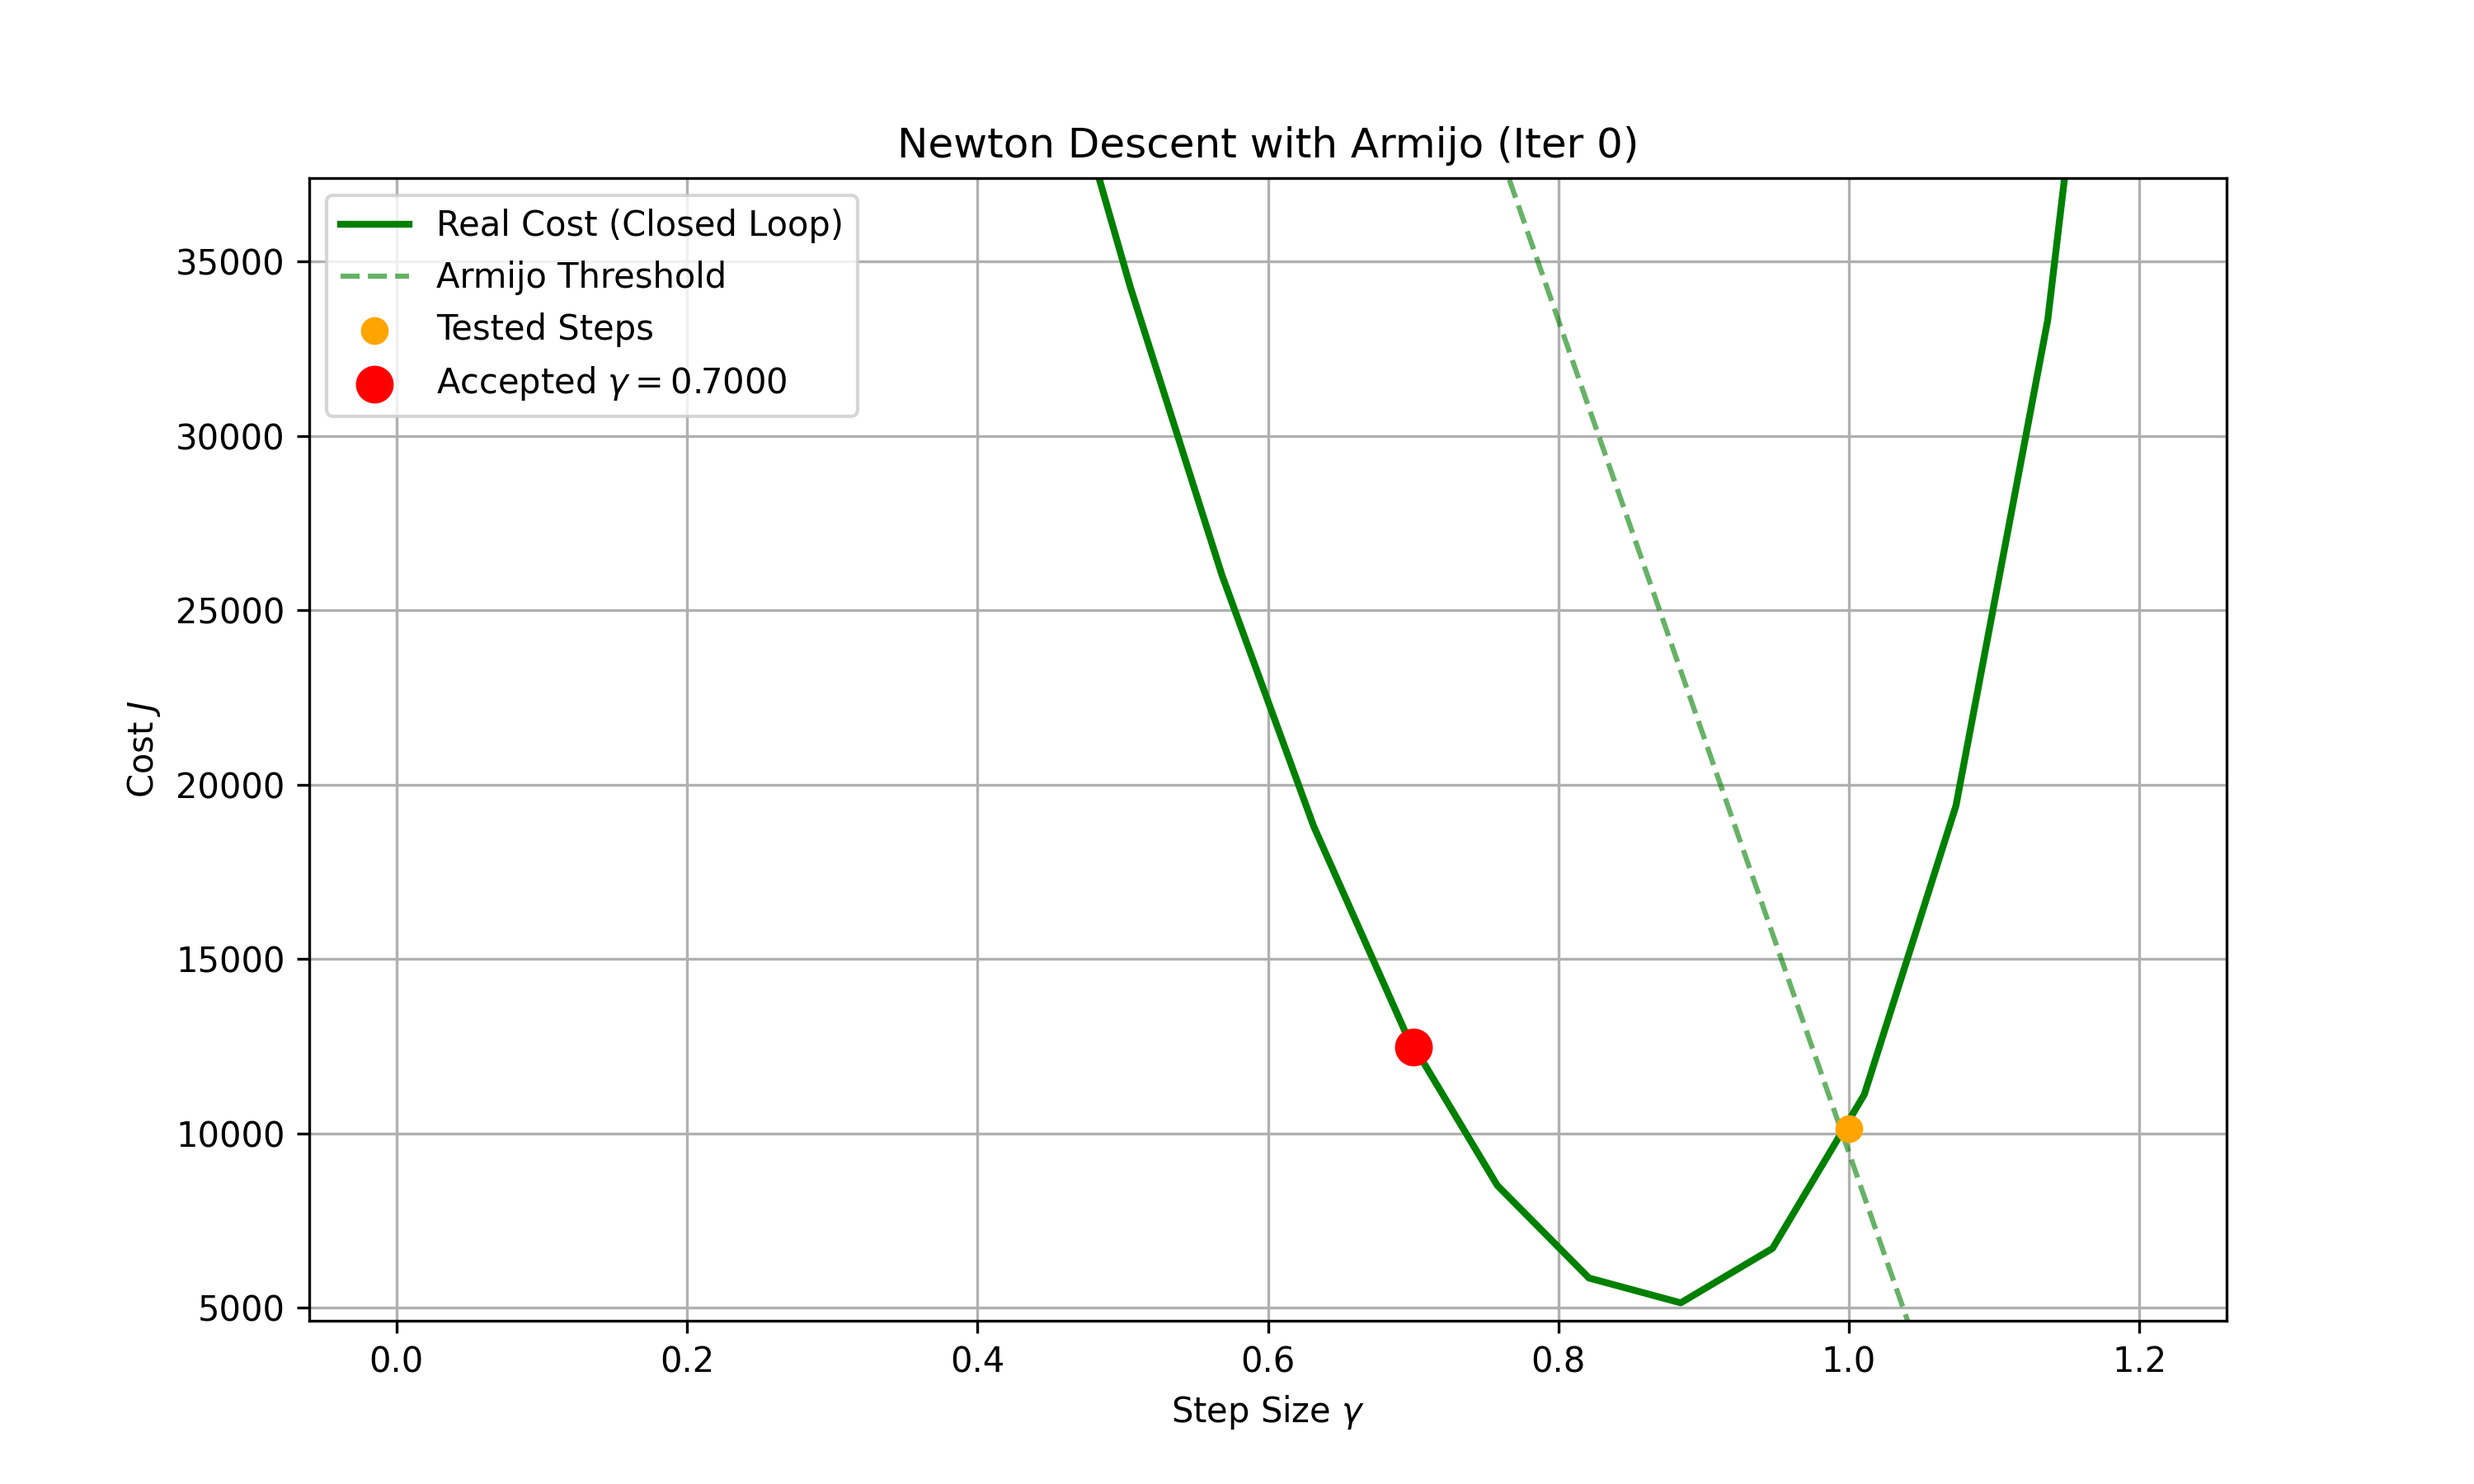
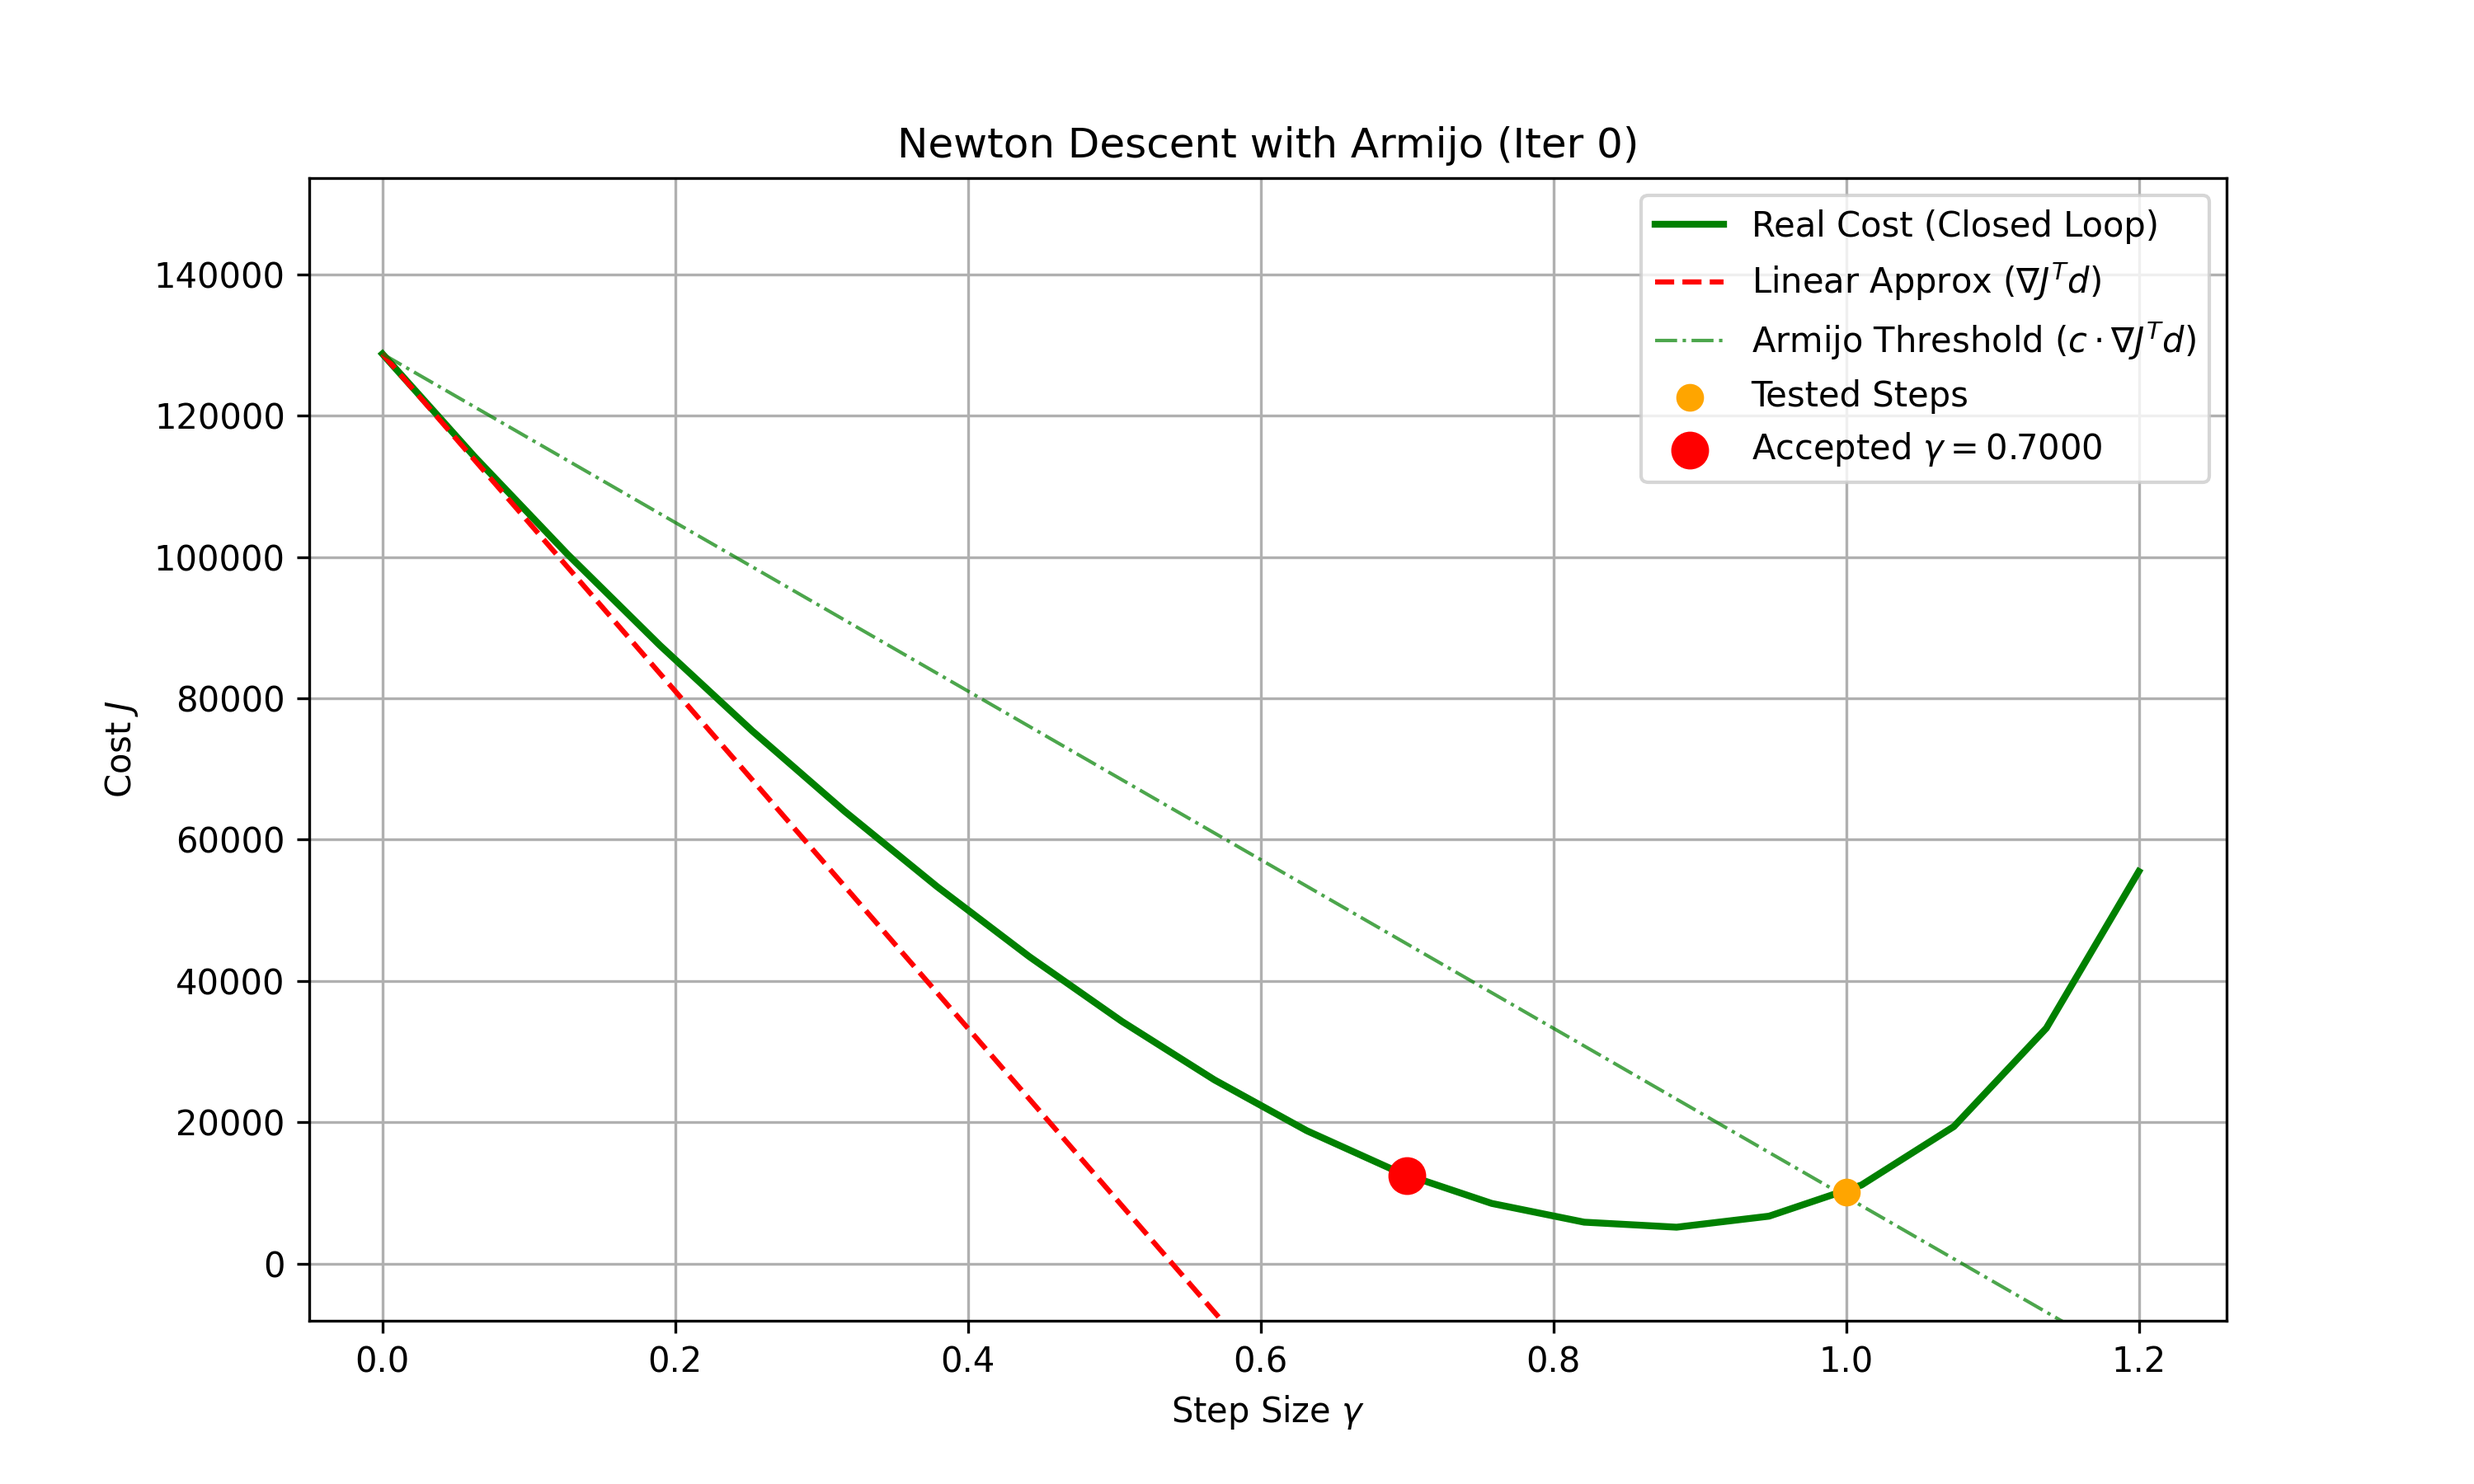
Cambiato plot armijo (tangente)

diff --git a/main_task1.py b/main_task1.py
@@ -161,6 +161,7 @@ for kk in range(max_iters):
         # Initializing lists to store later the real cost and the armijo threshold line
         costs_test = []
         armijo_thresholds = []
+        linear_approximations = []
         
         # Simulating the exact cost that the algorithm would see
         for g_val in gammas_test:
@@ -201,11 +202,18 @@ for kk in range(max_iters):
             thresh = cost_current + cc * g_val * slope 
             armijo_thresholds.append(thresh)
 
+            # Tangent line
+            lin_approx = cost_current + 1.0 * g_val * slope 
+            linear_approximations.append(lin_approx)
+
+            
+
         # Saving curve data
         armijo_data_iter['iter'] = kk
         armijo_data_iter['gammas'] = gammas_test
         armijo_data_iter['real_costs'] = costs_test
         armijo_data_iter['thresholds'] = armijo_thresholds
+        armijo_data_iter['linear_approx'] = linear_approximations
         
         # Placeholder for tested points
         armijo_data_iter['tested_gammas'] = []
@@ -502,6 +510,7 @@ if len(global_armijo_data) > 0:
         gammas = data['gammas']
         real_costs = data['real_costs']
         lines = data['thresholds']
+        tangents = data.get('linear_approx')
         
         acc_g = data['accepted_gamma']
         acc_c = data['accepted_cost']
@@ -512,17 +521,25 @@ if len(global_armijo_data) > 0:
         
         plt.figure(figsize=(10, 6))
         
-        # 1. Curves
+        # 1. Real cost curve
         plt.plot(gammas, real_costs, 'g-', linewidth=2, label='Real Cost (Closed Loop)')
-        plt.plot(gammas, lines, 'g--', alpha=0.6, label='Armijo Threshold')
-        
-        # 2. Tested Points (Orange Scatter)
+
+       # 2. Linear Approximation (Tangent) - Red Dashed
+        if tangents is not None:
+             plt.plot(gammas, tangents, 'r--', linewidth=1.5, label=r'Linear Approx ($\nabla J^T d$)')
+
+        # 3. Armijo Threshold - Green Dashed (Thinner)
+        plt.plot(gammas, lines, 'g-.', linewidth=1, alpha=0.7, label=r'Armijo Threshold ($c \cdot \nabla J^T d$)')
+
+        # 4. Tested Points (Orange Scatter)
         if len(tested_g) > 0:
             plt.scatter(tested_g, tested_c, color='orange', s=50, zorder=5, label='Tested Steps')
         
-        # 3. Accepted Point (Red Scatter)
+        # 5. Accepted Point (Red Scatter)
         if acc_g is not None:
             plt.scatter(acc_g, acc_c, color='red', s=100, zorder=6, label=fr'Accepted $\gamma={acc_g:.4f}$')
+        
+
             
         plt.title(f'Newton Descent with Armijo (Iter {iter_idx})')
         plt.xlabel(r'Step Size $\gamma$')
@@ -530,10 +547,49 @@ if len(global_armijo_data) > 0:
         plt.grid(True)
         plt.legend(loc='best')
         
+        # --- ZOOM INTELLIGENTE (Versione Tangenza Visibile) ---
+        
+        # 1. Determiniamo i limiti basandoci SOLO sulla curva di Costo Reale
+        #    Ignoriamo quanto in basso scende la tangente rossa per gamma grandi.
+        #    Consideriamo tutti i costi calcolati + il costo iniziale.
+        valid_costs = list(real_costs)
+        valid_costs.append(cost_current)
+        
+        # Filtriamo eventuali valori nan o inf per sicurezza
+        valid_costs = [c for c in valid_costs if np.isfinite(c)]
+        
+        if len(valid_costs) > 0:
+            y_data_min = min(valid_costs)
+            y_data_max = max(valid_costs)
+            
+            # Calcoliamo l'escursione dei costi reali
+            y_span = y_data_max - y_data_min
+            if y_span == 0: y_span = 1.0 # Evita crash su grafici piatti
+            
+            # 2. Impostiamo i margini
+            #    - Margine INFERIORE: 10% dello span (per non toccare il fondo)
+            #    - Margine SUPERIORE: 20% dello span (più ampio, per vedere bene la tangenza in alto)
+            margin_bottom = 0.1 * y_span
+            margin_top = 0.2 * y_span
+            
+            # Se il punto accettato è molto basso (più del minimo testato), allarghiamo sotto
+            if acc_c is not None and acc_c < y_data_min:
+                y_data_min = acc_c
+            
+            # Impostiamo i limiti Y
+            # In questo modo la tangente rossa sarà visibile all'inizio (tangenza) 
+            # e poi verrà "tagliata" quando scende troppo, lasciando il focus sulla parabola verde.
+            plt.ylim(y_data_min - margin_bottom, y_data_max + margin_top)
+            
+            # 3. Impostiamo i limiti X
+            #    Partiamo leggermente prima di 0 (-0.05) per vedere bene l'asse Y e l'intercetta
+            max_x = max(gammas) if len(gammas) > 0 else 1.2
+            plt.xlim(-0.05, max_x * 1.05)
         # Zoom if costs are very high at the beginning
-        if acc_c is not None:
+        #if acc_c is not None:
+             
              # Center the view in the interested zone (low gamma)
-             plt.ylim(min(real_costs) * 0.9, acc_c * 3.0) 
+             #plt.ylim(min(real_costs) * 0.9, acc_c * 3.0) 
 
         plt.savefig(os.path.join(output_folder,f'Task1_Armijo_LineSearch_Iter_{iter_idx}.png'), dpi=300)
         plt.show()
